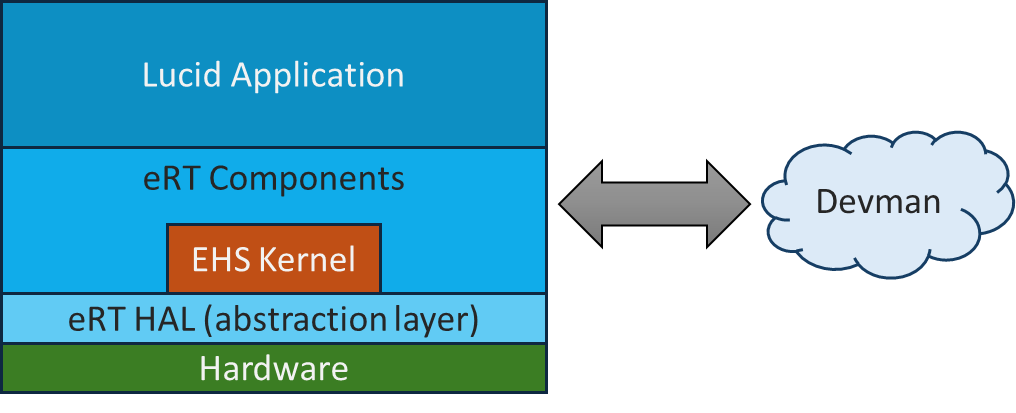
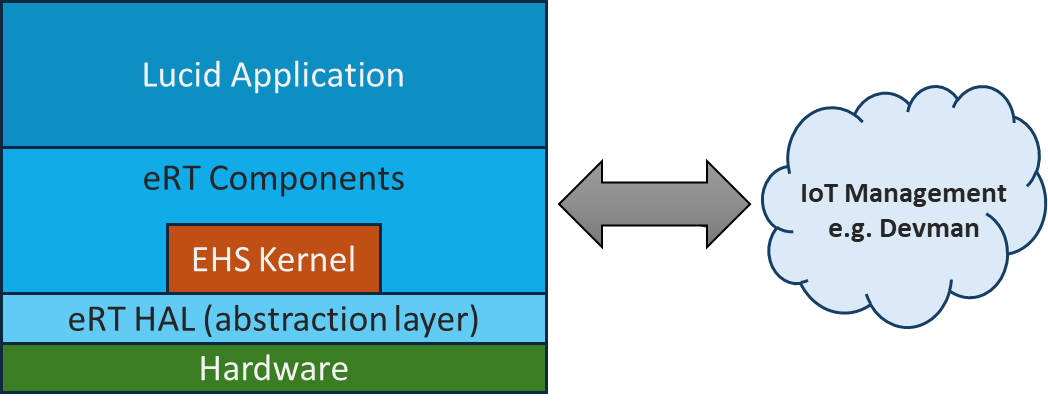
docs(build): Minor documentation improvements
- Updated the inxware diagram
- Tweaked the quick start guides
- Work-in-progress changes to build documentation

diff --git a/BUILDING.md b/BUILDING.md
@@ -3,7 +3,7 @@
 Below are some detailed instructions on how to use the eRT Components configuration and build system.
 
 - [Prerequisites](#prerequisites)
-- [Quick start](#quick-start)
+- [Smoke test](#smoke-test)
 - [Build status](#build-status)
 - [Host pre-requisites](#host-pre-requisites)
 - [Repository pre-requisites](#repository-pre-requisites)
@@ -33,15 +33,19 @@ Below are some detailed instructions on how to use the eRT Components configurat
 | **CPU**     | 4 cores                                       | 8+ cores                           |
 | **Network** | Broadband internet                            | High-speed for container downloads |
 
-## Quick start
+## Smoke test
 
-Within a Linux bash shell, enter the following commands:
+The instructions below will allow you to get a clean build environment set up and then run a single test build to ensure everything is working. Within a Linux bash shell, enter the following commands:
 
    ```bash
    mkdir inxware && cd inxware
 
    # Clone the main `ert-components` repository
-   git clone https://github.com/inxware/ert-components.git
+   # If you prefer HTTPS:
+   # git clone https://github.com/inxware/ert-components.git
+   #
+   # If you prefer SSH:
+   git clone git@github.com:inxware/ert-components.git
    cd ert-components
 
    # Configure the build for your chosen target platform
@@ -52,14 +56,10 @@ Within a Linux bash shell, enter the following commands:
    make prepdeps                   # Downloads toolchains and dependencies (~40GB) 
 
    # Build the runtime binary
-   make all_docker # Build using containerised environment
+   make all_docker                 # Build using containerised environment
 
-   # Create a deployable package
+   # Create a staging directory for later packaging
    make targetenv                  # Assemble the runtime environment
-   make targetenv_version          # Create versioned release (binary/package)
-
-   #Test your build
-   ./configure -run  # Run the built application
    ```
 
 **Success!** You now have a working eRT runtime. Try the [Lucid IDE](https://appland.inxware.io/) to create your first no-code application.

diff --git a/README.md b/README.md
@@ -102,7 +102,7 @@ To create an inxware firmware image for your device, you will just need these th
 | **CPU**     | 4 cores                                       | 8+ cores                           |
 | **Network** | Broadband internet                            | High-speed for container downloads |
 
-Within a Linux bash shell, enter the following commands:
+Within a Linux bash shell, enter the following commands to check your build environment is working:
 
 ```bash
 mkdir inxware && cd inxware
@@ -125,14 +125,10 @@ cd ert-components
 make prepdeps       # Downloads toolchains and dependencies (~40GB) 
 
 # Build the runtime binary
-make all_docker # Build using containerised environment
+make all_docker     # Build using containerised environment
 
-# Create a deployable package
-make targetenv                  # Assemble the runtime environment
-make targetenv_version     # Create versioned release (binary/package)
-
-#Test your build
-./configure -run  # Run the built application
+# Create a staging directory for later packaging
+make targetenv      # Assemble the runtime environment
 ```
 
 **Success!** You now have a working eRT runtime. Try the [Lucid IDE](https://appland.inxware.io/) to create your first no-code application.
